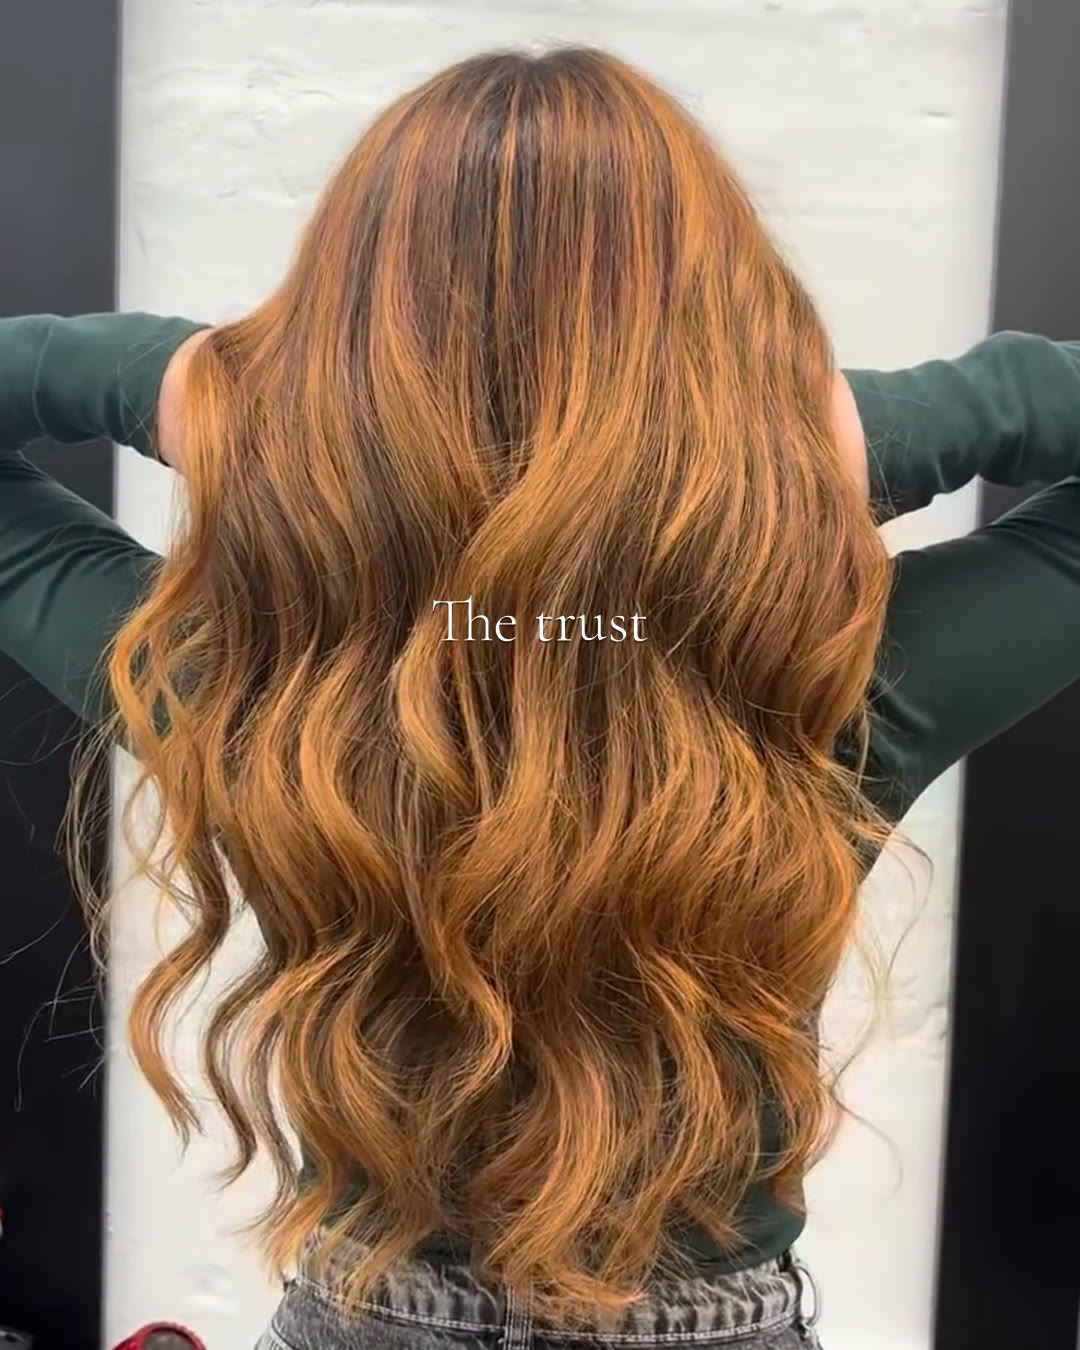
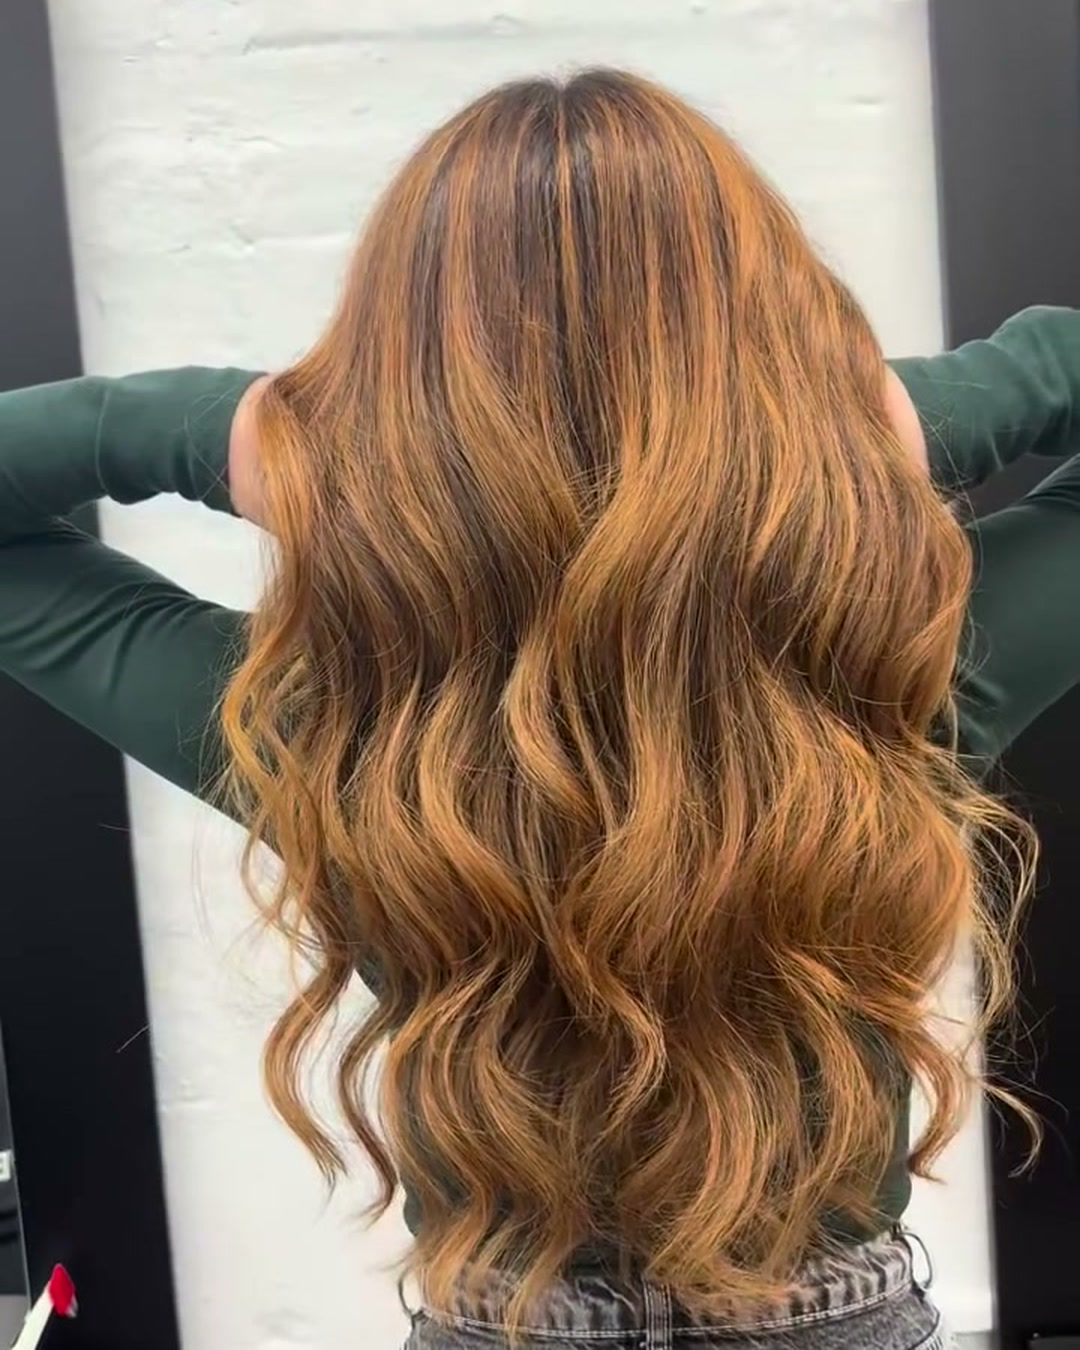
76 plan-maria: Emma trust reel cover is now the plain raw frame at 8s, no text (Maria)

diff --git a/seventysix-planner/plan-maria/index.html b/seventysix-planner/plan-maria/index.html
@@ -389,7 +389,7 @@ Look at that shine ✨
 
 #seventysixsalon #brunettehair #darkchocolate #chelmsfordhair #essexhairdresser`],
  ['cvch','photo','Christmas gift vouchers · Option 2','../img/voucher-ad/ad2-feed-brunette.jpg',[],'',DRCAP.voucher],
- ['trust','reel','TREND · “I trust you” → “The trust” · Emma','../img/wk2/c-emmatrust.jpg',[],'../video/wk2-emma-trust.mp4',`The best feeling as a hairdresser 🥹
+ ['trust','reel','TREND · “I trust you” → “The trust” · Emma','../img/wk2/c-emmatrust.jpg?v=2',[],'../video/wk2-emma-trust.mp4',`The best feeling as a hairdresser 🥹
 
 Hair by our amazing stylist Emma ✨
 
